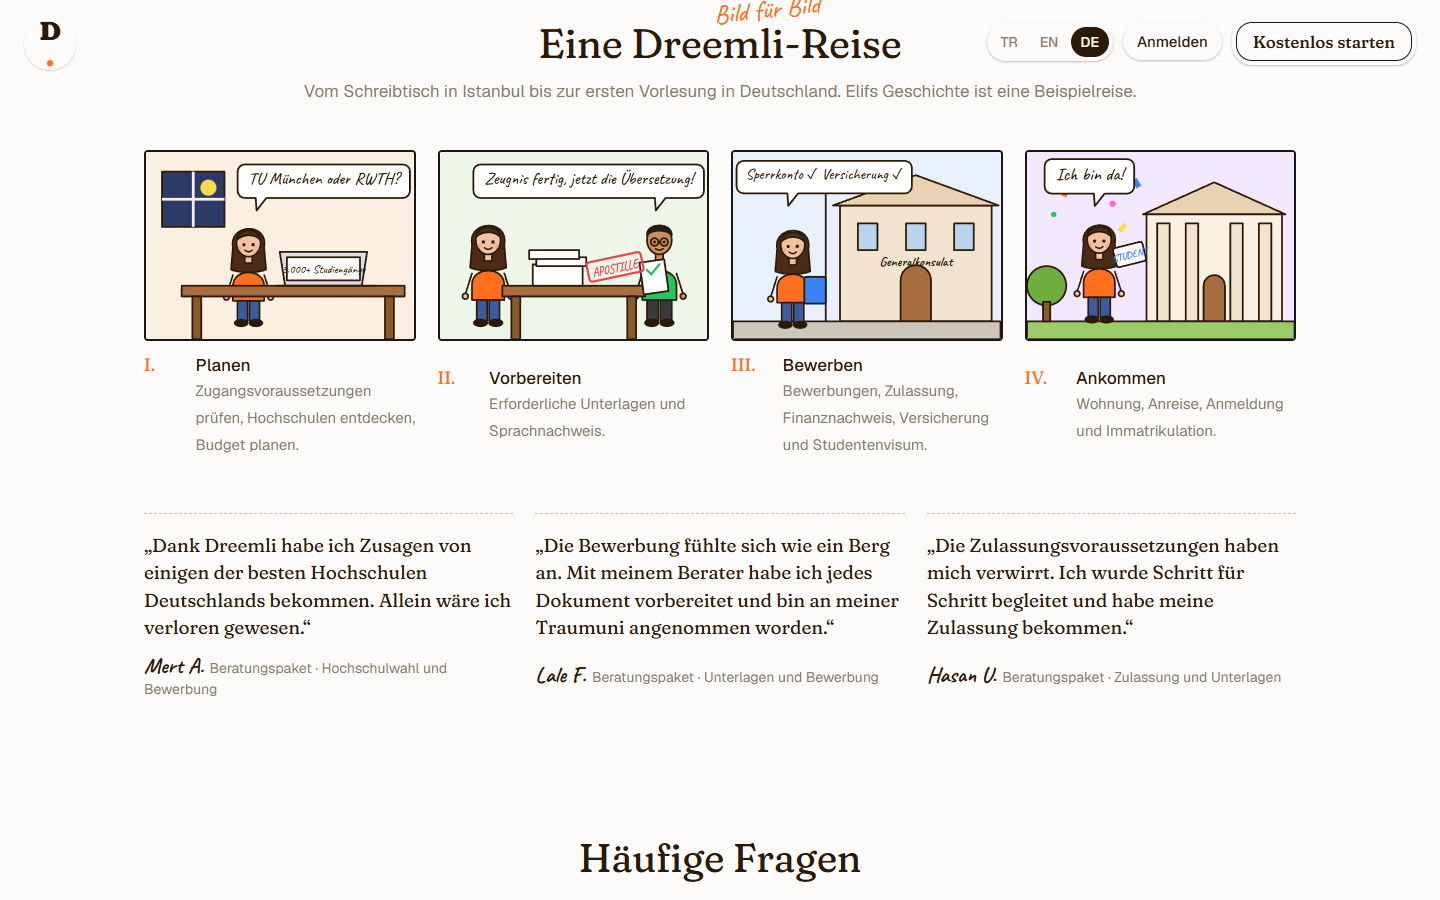
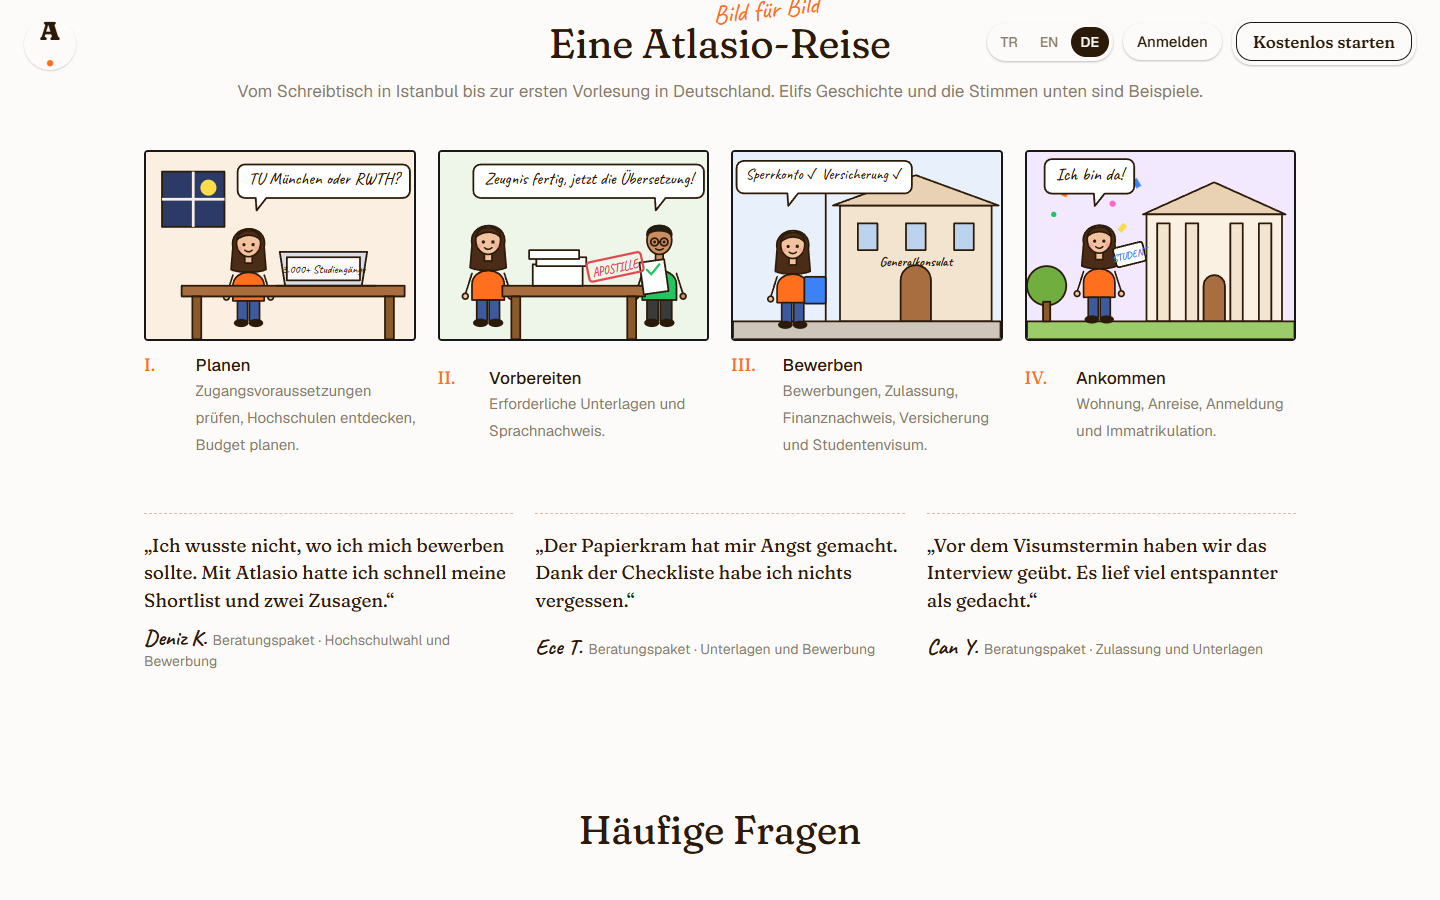
Replace the example brand with the fictional Atlasio
Use a made-up brand in the paper-notebook example so no real company's
name, contact details or customer reviews are published: Atlasio with
placeholder contacts on the reserved .example domain, new sample
reviews marked as examples, and refreshed screenshots and docs.

diff --git a/skills/paper-notebook-landing/example/index.html b/skills/paper-notebook-landing/example/index.html
@@ -3,7 +3,7 @@
 <head>
 <meta charset="utf-8">
 <meta name="viewport" content="width=device-width, initial-scale=1, viewport-fit=cover">
-<title>Dreemli · Paper Notebook Example</title>
+<title>Atlasio · Paper Notebook Example</title>
 <link rel="preconnect" href="https://fonts.googleapis.com">
 <link rel="preconnect" href="https://fonts.gstatic.com" crossorigin>
 <link rel="stylesheet" href="https://fonts.googleapis.com/css2?family=Fraunces:opsz,wght,SOFT,WONK@9..144,400..900,100,0..1&family=Geist:wght@400;500&family=Caveat:wght@500;700&display=swap">
@@ -26,7 +26,7 @@
   --sticky:#fadb4b; --sticky-2:#f5cf30;
   --red:#e5484d;
   --leather:#a86e40;
-  --navy:#172440; --gold:#e2b26b; --brand-orange:#cc4b14;   /* Dreemli pasaport broşürü */
+  --navy:#172440; --gold:#e2b26b; --brand-orange:#cc4b14;   /* Atlasio pasaport broşürü */
   --f-display:"Fraunces","Gelica","Recoleta",Georgia,serif;
   --f-body:"Geist","Inter",system-ui,sans-serif;
   --f-hand:"Caveat","Segoe Print",cursive;
@@ -366,7 +366,7 @@ details p{font:400 17px/1.6 var(--f-body);color:#5a4a3a;padding-bottom:20px;max-
   </defs>
 </svg>
 
-<a class="corner-logo" href="#" aria-label="Dreemli ana sayfa">D<span>.</span></a>
+<a class="corner-logo" href="#" aria-label="Atlasio ana sayfa">A<span>.</span></a>
 <div class="corner-cta">
   <div class="lang" role="group" aria-label="Dil seçimi">
     <button id="lang-tr" aria-pressed="true">TR</button>
@@ -393,7 +393,7 @@ details p{font:400 17px/1.6 var(--f-body);color:#5a4a3a;padding-bottom:20px;max-
         <div class="book book-slot">
           <div class="pp">
             <div class="pp-frame">
-              <span class="pp-brand">DREEMLI</span>
+              <span class="pp-brand">ATLASIO</span>
               <span class="pp-tag">EĞİTİM • KEŞİF • FIRSAT</span>
               <svg class="pp-globe" viewBox="0 0 220 175" aria-hidden="true">
                 <path d="M14 18H206" stroke="#e2b26b" stroke-width="2.2" stroke-dasharray="0.1 9" stroke-linecap="round"/>
@@ -407,7 +407,7 @@ details p{font:400 17px/1.6 var(--f-body);color:#5a4a3a;padding-bottom:20px;max-
               <span class="pp-sub">GELECEĞİNE</span>
               <span class="pp-cta">ALMANYA'DA OKU</span>
               <span class="pp-stages">PLANLA / HAZIRLAN / BAŞVUR / VAR</span>
-              <span class="pp-foot"><span>KAŞİF SÜRÜMÜ</span><span>DREEMLI.COM</span></span>
+              <span class="pp-foot"><span>KAŞİF SÜRÜMÜ</span><span>ATLASIO.EXAMPLE</span></span>
             </div>
           </div>
         </div>
@@ -417,7 +417,7 @@ details p{font:400 17px/1.6 var(--f-body);color:#5a4a3a;padding-bottom:20px;max-
   </section>
 
   <!-- KAYDIRINCA AÇILAN DEFTER -->
-  <section class="opener" id="opener" aria-label="Dreemli yolculuk defteri">
+  <section class="opener" id="opener" aria-label="Atlasio yolculuk defteri">
     <div class="ob-stage">
       <div class="ob-book">
         <div class="ob-page">
@@ -435,7 +435,7 @@ details p{font:400 17px/1.6 var(--f-body);color:#5a4a3a;padding-bottom:20px;max-
           <div class="face front">
           <div class="pp">
             <div class="pp-frame">
-              <span class="pp-brand">DREEMLI</span>
+              <span class="pp-brand">ATLASIO</span>
               <span class="pp-tag">EĞİTİM • KEŞİF • FIRSAT</span>
               <svg class="pp-globe" viewBox="0 0 220 175" aria-hidden="true">
                 <path d="M14 18H206" stroke="#e2b26b" stroke-width="2.2" stroke-dasharray="0.1 9" stroke-linecap="round"/>
@@ -449,13 +449,13 @@ details p{font:400 17px/1.6 var(--f-body);color:#5a4a3a;padding-bottom:20px;max-
               <span class="pp-sub">GELECEĞİNE</span>
               <span class="pp-cta">ALMANYA'DA OKU</span>
               <span class="pp-stages">PLANLA / HAZIRLAN / BAŞVUR / VAR</span>
-              <span class="pp-foot"><span>KAŞİF SÜRÜMÜ</span><span>DREEMLI.COM</span></span>
+              <span class="pp-foot"><span>KAŞİF SÜRÜMÜ</span><span>ATLASIO.EXAMPLE</span></span>
             </div>
           </div>
           </div>
           <div class="face back ob-left" style="inset:0;opacity:1;border-radius:3cqw 0 0 3cqw">
             <div class="pocket">transkript · diploma ·<br>dil belgesi buraya</div>
-            <span class="emb">Dreemli.</span>
+            <span class="emb">Atlasio.</span>
           </div>
         </div>
       </div>
@@ -671,8 +671,8 @@ details p{font:400 17px/1.6 var(--f-body);color:#5a4a3a;padding-bottom:20px;max-
   <section class="story" id="hikaye">
     <div class="wrap">
       <div class="story-head">
-        <h2>Bir Dreemli <span class="real"><span class="hand">kare kare</span>yolculuğu</span></h2>
-        <p>İstanbul'daki masadan Almanya'daki ilk derse. Elif'in hikâyesi örnek bir yolculuktur.</p>
+        <h2>Bir Atlasio <span class="real"><span class="hand">kare kare</span>yolculuğu</span></h2>
+        <p>İstanbul'daki masadan Almanya'daki ilk derse. Elif'in hikâyesi ve aşağıdaki yorumlar örnektir.</p>
       </div>
       <ol class="strip">
         <!-- 1 keşif -->
@@ -754,9 +754,9 @@ details p{font:400 17px/1.6 var(--f-body);color:#5a4a3a;padding-bottom:20px;max-
       </ol>
 
       <div class="quotes">
-        <figure class="quote"><blockquote>“Dreemli sayesinde Almanya'nın en iyi üniversitelerinden bazılarından kabul aldım. Tek başıma olsaydım kaybolurdum.”</blockquote><figcaption><b>Mert A.</b>Danışmanlık paketi · Üniversite seçimi ve başvuru</figcaption></figure>
-        <figure class="quote"><blockquote>“Başvuru süreci bir dağ gibi hissettirdi. Danışmanımla her belgeyi hazırladım ve hayalimdeki üniversiteye girdim.”</blockquote><figcaption><b>Lale F.</b>Danışmanlık paketi · Belge hazırlığı ve başvuru</figcaption></figure>
-        <figure class="quote"><blockquote>“Kabul şartları konusunda kafam karışıktı. Adım adım yönlendirildim ve kabul mektubumu aldım.”</blockquote><figcaption><b>Hasan U.</b>Danışmanlık paketi · Kabul koşulları ve belgeler</figcaption></figure>
+        <figure class="quote"><blockquote>“Hangi üniversiteye başvuracağımı bilmiyordum. Atlasio ile kısa listemi çıkardım ve iki kabul aldım.”</blockquote><figcaption><b>Deniz K.</b>Danışmanlık paketi · Üniversite seçimi ve başvuru</figcaption></figure>
+        <figure class="quote"><blockquote>“Belgeler gözümü korkutuyordu. Kontrol listesi sayesinde hiçbir şeyi atlamadım.”</blockquote><figcaption><b>Ece T.</b>Danışmanlık paketi · Belge hazırlığı ve başvuru</figcaption></figure>
+        <figure class="quote"><blockquote>“Vize randevusundan önce mülakat provası yaptık. Görüşme sandığımdan çok daha rahat geçti.”</blockquote><figcaption><b>Can Y.</b>Danışmanlık paketi · Kabul koşulları ve belgeler</figcaption></figure>
       </div>
     </div>
   </section>
@@ -786,10 +786,10 @@ details p{font:400 17px/1.6 var(--f-body);color:#5a4a3a;padding-bottom:20px;max-
         <p class="news-ok" id="news-ok" hidden>Kaydınız alındı. Ayda bir, spam yok.</p>
       </div>
       <ul><li><a href="#">Hakkımızda</a></li><li><a href="#">Blog</a></li><li><a href="#">Kariyer</a></li><li><a href="#">İletişim</a></li></ul>
-      <ul><li><a href="#">Instagram</a></li><li><span>contact@dreemli.com</span></li><li><span>+49 163 9145317</span></li></ul>
+      <ul><li><a href="#">Instagram</a></li><li><span>hello@atlasio.example</span></li><li><span>+49 30 0000 0000</span></li></ul>
     </div>
-    <div class="giant" aria-hidden="true">dreemli</div>
-    <div class="foot-bottom"><span>© 2026 Dreemli · Gizlilik · Künye · Çerezler</span><span>Taslak · Kâğıt defter stili</span></div>
+    <div class="giant" aria-hidden="true">atlasio</div>
+    <div class="foot-bottom"><span>© 2026 Atlasio · Gizlilik · Künye · Çerezler</span><span>Taslak · Kâğıt defter stili</span></div>
   </div>
 </footer>
 
@@ -907,10 +907,10 @@ details p{font:400 17px/1.6 var(--f-body);color:#5a4a3a;padding-bottom:20px;max-
     "Bloke Hesap":["Blocked account","Sperrkonto"],
     "Fintiba ile Expatrio karşılaştırması ve başvuruların en sık gecikme nedenleri.":["Fintiba vs. Expatrio, and the most common reasons applications get delayed.","Fintiba und Expatrio im Vergleich und die häufigsten Gründe für Verzögerungen."],
     "VPD nasıl işliyor, belge biçiminden kaynaklanan retlerden nasıl kaçınılır.":["How the VPD works and how to avoid rejections caused by document format.","Wie die VPD funktioniert und wie Sie Absagen wegen Formfehlern vermeiden."],
-    "Bir Dreemli":["A Dreemli","Eine"],
+    "Bir Atlasio":["A Atlasio","Eine"],
     "kare kare":["frame by frame","Bild für Bild"],
-    "yolculuğu":["journey","Dreemli-Reise"],
-    "İstanbul'daki masadan Almanya'daki ilk derse. Elif'in hikâyesi örnek bir yolculuktur.":["From a desk in Istanbul to the first lecture in Germany. Elif's story is an example journey.","Vom Schreibtisch in Istanbul bis zur ersten Vorlesung in Deutschland. Elifs Geschichte ist eine Beispielreise."],
+    "yolculuğu":["journey","Atlasio-Reise"],
+    "İstanbul'daki masadan Almanya'daki ilk derse. Elif'in hikâyesi ve aşağıdaki yorumlar örnektir.":["From a desk in Istanbul to the first lecture in Germany. Elif's story and the reviews below are examples.","Vom Schreibtisch in Istanbul bis zur ersten Vorlesung in Deutschland. Elifs Geschichte und die Stimmen unten sind Beispiele."],
     "TU München mü, RWTH mi?":["TU Munich or RWTH?","TU München oder RWTH?"],
     "Uygunluk kontrol edilir, üniversiteler keşfedilir, bütçe planlanır.":["Check eligibility, explore universities, plan the budget.","Zugangsvoraussetzungen prüfen, Hochschulen entdecken, Budget planen."],
     "APOSTİL":["APOSTILLE","APOSTILLE"],
@@ -919,11 +919,11 @@ details p{font:400 17px/1.6 var(--f-body);color:#5a4a3a;padding-bottom:20px;max-
     "Bloke hesap ✓ sigorta ✓":["Blocked account ✓ insurance ✓","Sperrkonto ✓ Versicherung ✓"],
     "Başvurular, kabul, finansal kanıt, sigorta ve öğrenci vizesi.":["Applications, admission, financial proof, insurance and student visa.","Bewerbungen, Zulassung, Finanznachweis, Versicherung und Studentenvisum."],
     "Konaklama, yolculuk, adres kaydı ve üniversiteye kayıt.":["Housing, the trip, local registration and enrolment.","Wohnung, Anreise, Anmeldung und Immatrikulation."],
-    "“Dreemli sayesinde Almanya'nın en iyi üniversitelerinden bazılarından kabul aldım. Tek başıma olsaydım kaybolurdum.”":["“Thanks to Dreemli I got offers from some of Germany's best universities. On my own I would have been lost.”","„Dank Dreemli habe ich Zusagen von einigen der besten Hochschulen Deutschlands bekommen. Allein wäre ich verloren gewesen.“"],
+    "“Hangi üniversiteye başvuracağımı bilmiyordum. Atlasio ile kısa listemi çıkardım ve iki kabul aldım.”":["“I didn't know where to apply. With Atlasio I built my shortlist and got two offers.”","„Ich wusste nicht, wo ich mich bewerben sollte. Mit Atlasio hatte ich schnell meine Shortlist und zwei Zusagen.“"],
     "Danışmanlık paketi · Üniversite seçimi ve başvuru":["Consulting package · University choice and application","Beratungspaket · Hochschulwahl und Bewerbung"],
-    "“Başvuru süreci bir dağ gibi hissettirdi. Danışmanımla her belgeyi hazırladım ve hayalimdeki üniversiteye girdim.”":["“The application felt like a mountain. With my advisor I prepared every document and got into my dream university.”","„Die Bewerbung fühlte sich wie ein Berg an. Mit meinem Berater habe ich jedes Dokument vorbereitet und bin an meiner Traumuni angenommen worden.“"],
+    "“Belgeler gözümü korkutuyordu. Kontrol listesi sayesinde hiçbir şeyi atlamadım.”":["“The paperwork scared me. Thanks to the checklist I didn't miss a thing.”","„Der Papierkram hat mir Angst gemacht. Dank der Checkliste habe ich nichts vergessen.“"],
     "Danışmanlık paketi · Belge hazırlığı ve başvuru":["Consulting package · Document preparation and application","Beratungspaket · Unterlagen und Bewerbung"],
-    "“Kabul şartları konusunda kafam karışıktı. Adım adım yönlendirildim ve kabul mektubumu aldım.”":["“I was confused about admission requirements. I was guided step by step and got my admission letter.”","„Die Zulassungsvoraussetzungen haben mich verwirrt. Ich wurde Schritt für Schritt begleitet und habe meine Zulassung bekommen.“"],
+    "“Vize randevusundan önce mülakat provası yaptık. Görüşme sandığımdan çok daha rahat geçti.”":["“We practised the interview before my visa appointment. It went much easier than I expected.”","„Vor dem Visumstermin haben wir das Interview geübt. Es lief viel entspannter als gedacht.“"],
     "Danışmanlık paketi · Kabul koşulları ve belgeler":["Consulting package · Admission requirements and documents","Beratungspaket · Zulassung und Unterlagen"],
     "Aklınıza takılanlar":["Questions you might have","Häufige Fragen"],
     "Ücretsiz plan neleri kapsıyor?":["What does the free plan include?","Was ist im kostenlosen Plan enthalten?"],
@@ -942,7 +942,7 @@ details p{font:400 17px/1.6 var(--f-body);color:#5a4a3a;padding-bottom:20px;max-
     "Hakkımızda":["About us","Über uns"],
     "Kariyer":["Careers","Karriere"],
     "İletişim":["Contact","Kontakt"],
-    "© 2026 Dreemli · Gizlilik · Künye · Çerezler":["© 2026 Dreemli · Privacy · Imprint · Cookies","© 2026 Dreemli · Datenschutz · Impressum · Cookies"],
+    "© 2026 Atlasio · Gizlilik · Künye · Çerezler":["© 2026 Atlasio · Privacy · Imprint · Cookies","© 2026 Atlasio · Datenschutz · Impressum · Cookies"],
     "Taslak · Kâğıt defter stili":["Draft · Paper notebook style","Entwurf · Papier-Notizbuch-Stil"],
     // panel/cihaz metinleri (data-t, data-sub, placeholder)
     "Program seçimi tamam. Sırada gereksinimler var.":["Program choice done. Requirements are next.","Studiengang gewählt. Als Nächstes die Voraussetzungen."],
@@ -1018,12 +1018,12 @@ details p{font:400 17px/1.6 var(--f-body);color:#5a4a3a;padding-bottom:20px;max-
     langBtns.forEach(x=>x.setAttribute('aria-pressed',String(x.id==='lang-'+l)));
     renderAll();
     layoutBubbles();
-    try{localStorage.setItem('dreemli-lang',l)}catch(e){}
+    try{localStorage.setItem('atlasio-lang',l)}catch(e){}
   }
   const langBtns=[...document.querySelectorAll('.lang button')];
   langBtns.forEach(b=>b.addEventListener('click',()=>setLang(b.id.replace('lang-',''))));
   let savedLang=null;
-  try{savedLang=localStorage.getItem('dreemli-lang')}catch(e){}
+  try{savedLang=localStorage.getItem('atlasio-lang')}catch(e){}
   setLang(LANGS.includes(savedLang)?savedLang:'tr');
 
   // Defter: hero'daki yerinden kalkar, sahnenin ortasına gelir, sonra kapağı açılır

diff --git a/skills/paper-notebook-landing/README.md b/skills/paper-notebook-landing/README.md
@@ -6,7 +6,7 @@ An AI skill (for Claude Code / Claude Agent Skills) that designs landing pages i
 cream paper, chunky soft serif headlines, handwritten marker notes, yellow sticky notes,
 name-label notebooks, illustrated scenes with roman-numeral panels, doodles, lined paper, a comic strip and a giant orange footer.
 
-It ships with a complete reference build: the homepage of **Dreemli**, a study-in-Germany platform, in Turkish, English and German.
+It ships with a complete reference build: the homepage of **Atlasio**, a fictional study-in-Germany platform, in Turkish, English and German.
 
 ![Hero](screenshots/01-hero.png)
 
@@ -32,7 +32,7 @@ paper-notebook-landing/
 ## Features of the example page
 
 - **Scroll-driven notebook** – the notebook in the hero travels down, straightens and grows as you scroll, then its cover opens.
-  The cover recreates Dreemli's printed "Passport to your future" booklet, so web and print match.
+  The cover recreates a printed "Passport to your future" booklet cover, so web and print match.
 - **Three languages** – TR / EN / DE switch in the top-right corner; the choice is remembered.
 - **Auto-sizing comic speech bubbles** – bubbles are drawn around the measured text, so they fit in every language.
 - **Interactive panels** – roman-numeral feature lists update a device mock (e.g. the 4 stages Plan → Prepare → Apply → Arrive).
@@ -76,8 +76,7 @@ Set `CHROME=/path/to/browser` if Chrome is not in the default location.
 ## Credits and disclaimer
 
 - All illustrations are original inline SVG/CSS; no third-party logos, illustrations or photos are included.
-- The example content (texts, services, contact details) belongs to **Dreemli** ([dreemli.com](https://www.dreemli.com)) and is
-  used as a demonstration of the style.
+- **Atlasio** is a fictional brand. Names, contact details (`atlasio.example`) and reviews in the example are placeholders.
 - Fonts: [Fraunces](https://fonts.google.com/specimen/Fraunces), [Geist](https://fonts.google.com/specimen/Geist) and
   [Caveat](https://fonts.google.com/specimen/Caveat) are licensed under the SIL Open Font License and loaded from Google Fonts.
 
@@ -91,6 +90,6 @@ Code and documentation: [MIT](../../LICENSE).
 
 Bu klasör, sıcak "kâğıt defter" tarzında açılış sayfaları tasarlayan bir yapay zekâ skill'idir.
 `SKILL.md` stil kurallarını, bölüm kalıplarını ve kontrol listesini; `references/components.md` hazır kod parçalarını;
-`example/index.html` üç dilli (TR/EN/DE) Dreemli örnek sitesini; `screenshots/` ise tüm bölümlerin görüntülerini içerir.
+`example/index.html` üç dilli (TR/EN/DE) kurgusal Atlasio örnek sitesini; `screenshots/` ise tüm bölümlerin görüntülerini içerir.
 Kurulum: `/plugin marketplace add smyrna-pergamum/design-skills` ve `/plugin install paper-notebook-landing@design-skills`,
 ya da bu klasörü `~/.claude/skills/paper-notebook-landing` altına kopyalayın.
